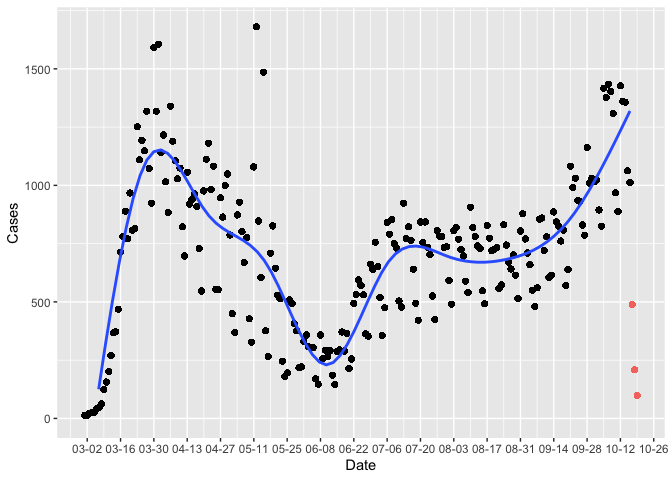
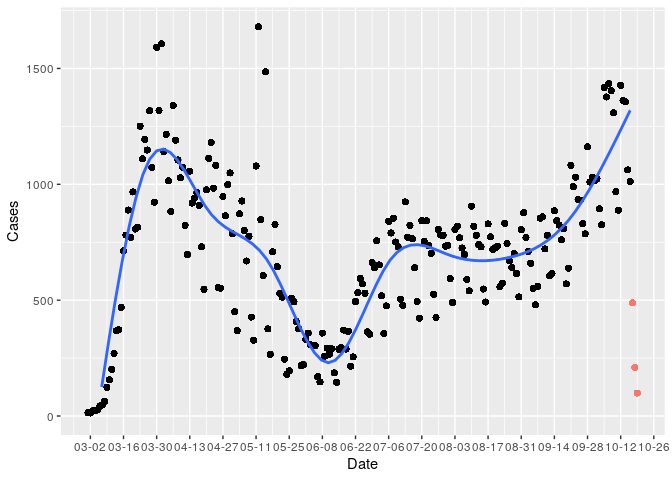
10-19-2020 update (pt 2?)

diff --git a/MiCorona.md b/MiCorona.md
@@ -1,7 +1,7 @@
 Michigan COVID Data
 ================
 Adam D. DenHaan
-19 October, 2020
+20 October, 2020
 
 Read in data:
 
@@ -34,7 +34,7 @@ mi_cases_by_day = mi_data %>%
     Date = date(Date)
   ) 
 
-day_split = 2
+day_split = 3
 
 mi_cases_by_day_exclusive <- mi_cases_by_day %>%
   filter(                                  #most recent data is often inaccurate and revised
@@ -70,5 +70,5 @@ mi_cases_by_day_exclusive %>%
 
 ![](MiCorona_files/figure-gfm/viz-1.png)<!-- -->
 
-Note that the last 1-3 days of data have been colored red on the graph,
+Note that the last 2-4 days of data have been colored red on the graph,
 as they frequently change as more information becomes available.
